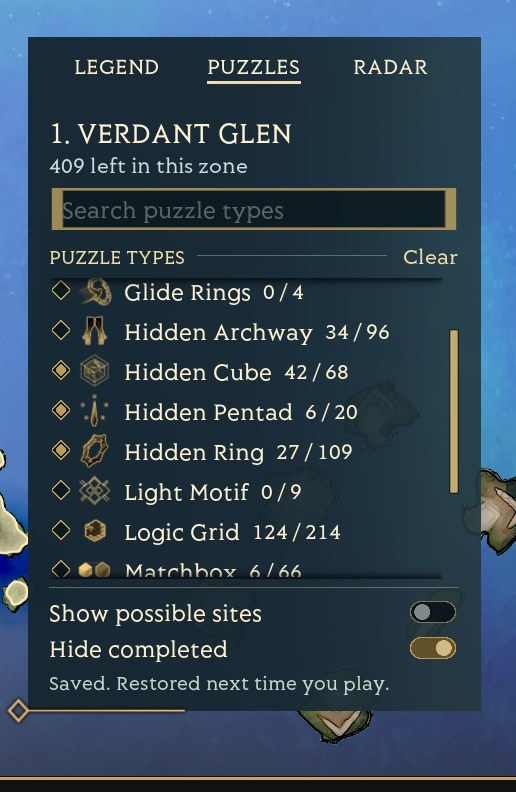
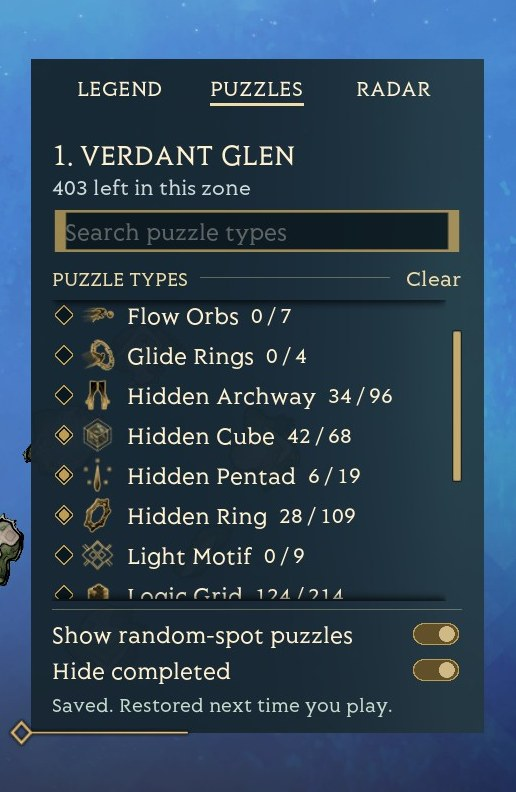
docs: retake the map and Puzzles tab screenshots
Show the renamed Show random-spot puzzles switch. The new map capture
keeps the whole of Verdant Glen next to the panel, so it is cropped wider
and shown at 800 px.

Changed region(s): [[0.0, 0.0303, 1.0, 0.9394], [0.0, 0.9697, 1.0, 1.0], [0.8682, 0.3939, 0.8992, 0.6364]]

diff --git a/README.md b/README.md
@@ -60,7 +60,7 @@ more helpers are on the way.
 ### On the map
 
 <div align="center">
-  <img src="docs/images/map-puzzles-right.jpg" alt="The world map of Verdant Glen with Hidden Cube, Pentad and Ring pins, and the Puzzles tab listing the zone's types with solved counts" width="600">
+  <img src="docs/images/map-puzzles.jpg" alt="The world map of Verdant Glen with Hidden Cube, Pentad and Ring pins, and the Puzzles tab listing the zone's types with solved counts" width="800">
 </div>
 
 ### On the radar
